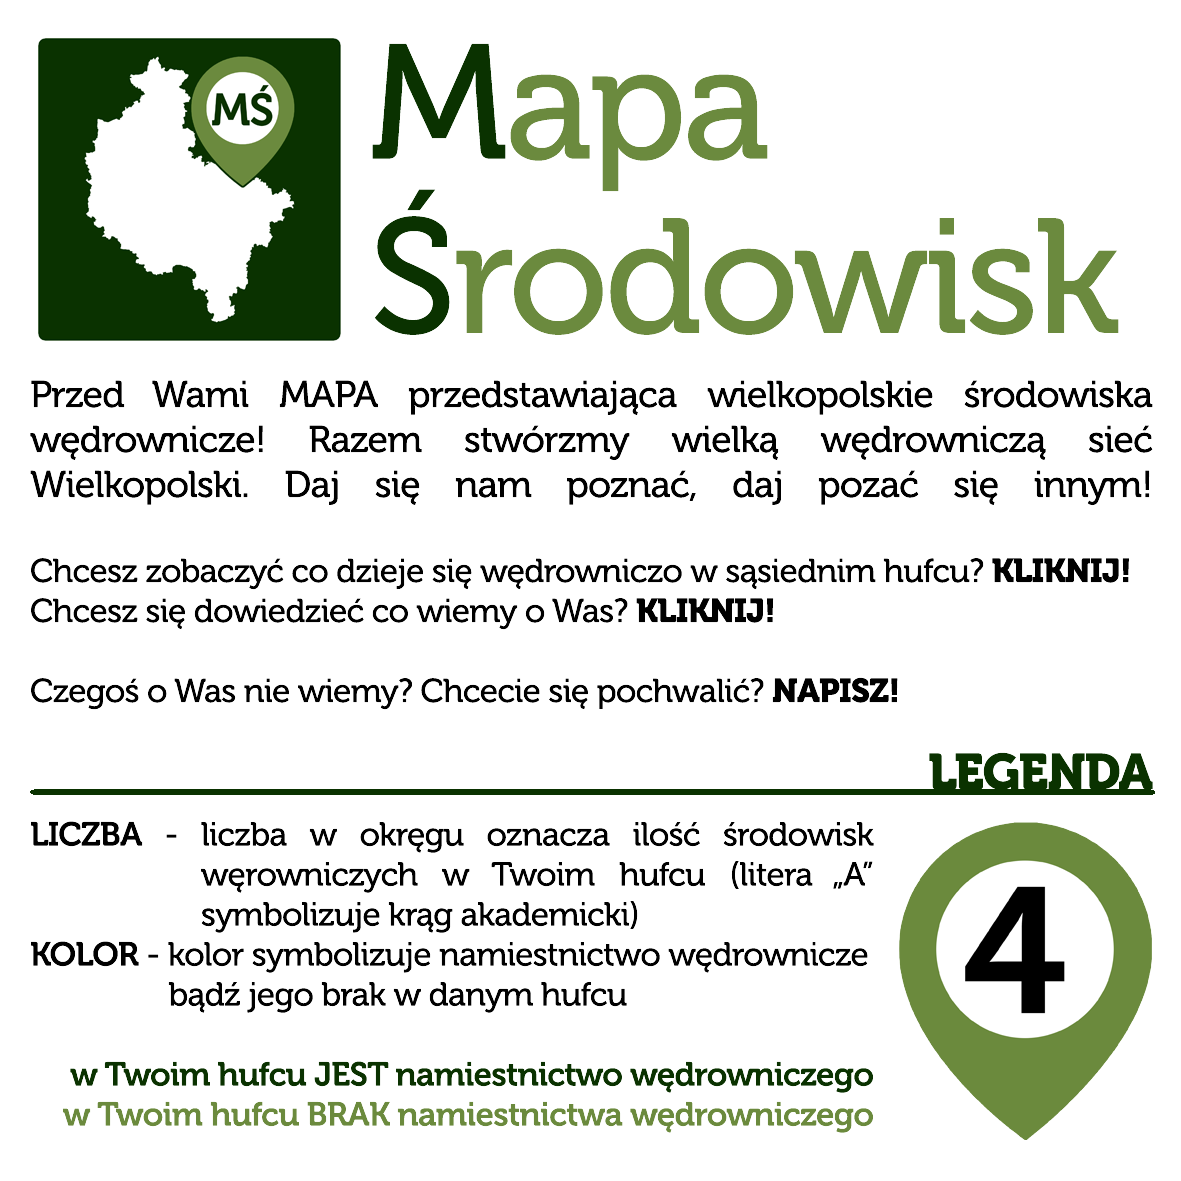
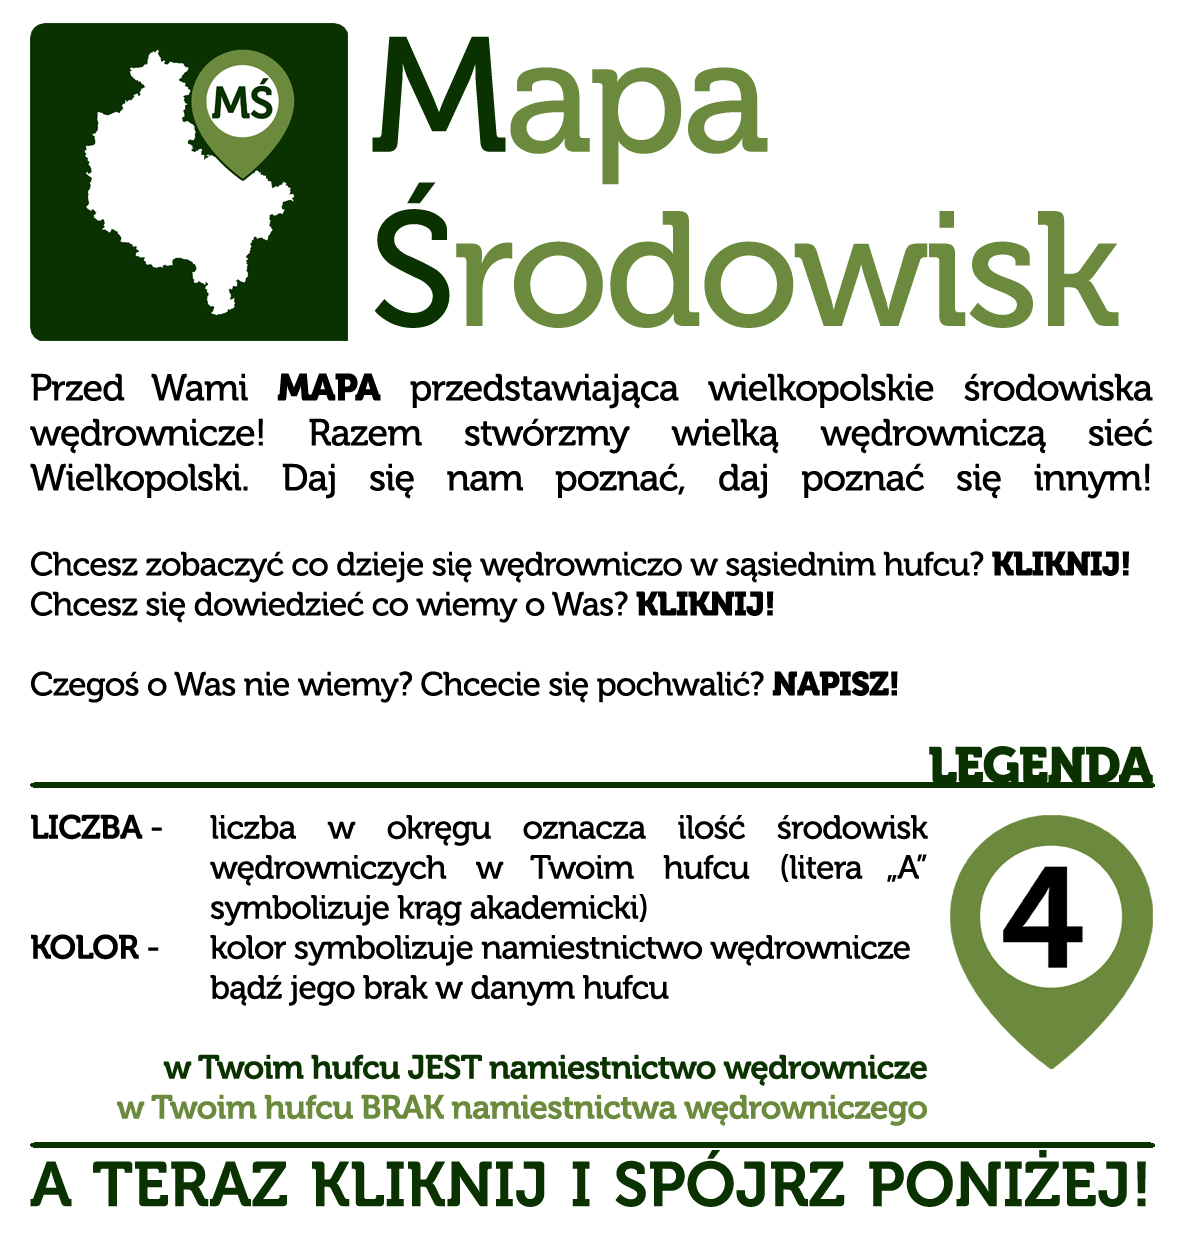
test new img

Changed region(s): [[0.0, 0.0, 0.9754, 0.9754]]

diff --git a/visualise.css b/visualise.css
@@ -21,8 +21,6 @@ html, body, #map-container {
     right: 20;
 }
 
-#legend {width: 90%;}
-
 #map {
 	position: relative;	
 	width:50%;
@@ -36,6 +34,8 @@ html, body, #map-container {
   margin-right: 5px;
   font-size: 19px;
 }
+
+#legend {width: 40%;}
 
 #Srodowisko{
   clear: left;
